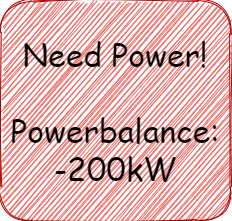
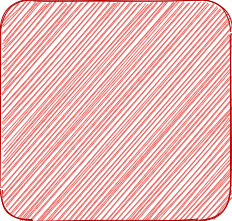
Text isnt a pic anymore

diff --git a/src/App.vue b/src/App.vue
@@ -14,6 +14,15 @@
     <div id="redNeedPower">
       <img src="@/assets/needPower.png" class="mr-3" alt="needPower" width="300" height="275">
     </div>
+    <div id="pNeedPower">
+      <p>Need power!</p>
+    </div>
+    <div id="pPowerbalance">
+      <p>Powerbalance:</p>
+    </div>
+    <div id="pkW">
+      <p>-200kW</p>
+    </div>
     <div id="redLightning">
       <img src="@/assets/roterBlitz.png" class="mr-3" alt="redLightning" width="175" height="225">
     </div>
@@ -343,6 +352,28 @@ export default {
     color: black;
     font-size: 37px;
 }
+#pNeedPower {
+    position: fixed;
+    right: 110px;
+    bottom: 800px;
+    color: black;
+    font-size: 40px;
+}
+#pPowerbalance {
+    position: fixed;
+    right: 85px;
+    bottom: 750px;
+    color: black;
+    font-size: 40px;
+}
+#pkW {
+    position: fixed;
+    right: 150px;
+    bottom: 700px;
+    color: black;
+    font-size: 40px;
+}
+
 
 body {
   background-image: url("assets/landingPage.jpg");
